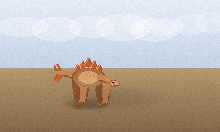
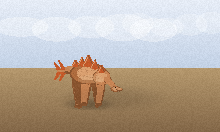
nomoreneckfeet

Changed region(s): [[0.2455, 0.3939, 0.5727, 0.8182]]

diff --git a/scripts/generate_authored_assets.js b/scripts/generate_authored_assets.js
@@ -701,92 +701,108 @@ function drawStegosaurus(image, frameIndex, frameCount, overridePalette = null) 
     eye: PALETTE.eye,
   };
 
+  // Stegosaurus faces RIGHT: small head low-right, arched back peaking at hips,
+  // thick tail extending LEFT with thagomizer spikes.
+  // Hip is highest point (~y=48), head lowest (~y=72). Back arches dramatically.
+
   const phase = (frameIndex / frameCount) * Math.PI * 2;
-  const bob = Math.sin(phase) * 1.0;
-  const headBob = Math.cos(phase) * 1.2;
-  const tailSway = Math.sin(phase) * 3;
-  const legShift = Math.sin(phase) * 1.4;
+  const bob = Math.sin(phase) * 0.8;
+  const headBob = Math.cos(phase) * 1.0;
+  const tailSway = Math.sin(phase) * 2.5;
+  const legShift = Math.sin(phase) * 1.2;
 
-  drawGroundShadow(image, 34, 88 + bob, 28, 7, overridePalette ? 0.12 : 0.22);
+  drawGroundShadow(image, 36, 88 + bob, 30, 7, overridePalette ? 0.12 : 0.2);
 
-  // Tail with thagomizer spikes
+  // --- TAIL: extends LEFT from hip, held roughly horizontal, thick ---
   drawTube(image, [
-    [2 + tailSway * 0.5, 56 + bob],
-    [8 + tailSway * 0.3, 56 + bob],
-    [16, 56 + bob],
-    [22, 58 + bob],
-  ], 2.0, 5.0, palette.bodyAlt || palette.body, palette.shadow, palette.highlight);
+    [3 + tailSway * 0.5, 54 + bob],
+    [8 + tailSway * 0.3, 54 + bob],
+    [14 + tailSway * 0.1, 52 + bob],
+    [20, 52 + bob],
+  ], 2.0, 5.5, palette.bodyAlt || palette.body, palette.shadow, palette.highlight);
 
-  // Thagomizer – 4 spikes at tail tip
+  // Thagomizer — 4 spikes at tail tip, 2 pointing up, 2 pointing down
   const plateColor = palette.plate || palette.highlight;
-  const tx = 2 + tailSway * 0.5, ty = 56 + bob;
-  fillPolygon(image, [[tx, ty - 2], [tx - 4, ty - 8], [tx - 2, ty - 2]], plateColor);
-  fillPolygon(image, [[tx + 2, ty - 2], [tx - 1, ty - 10], [tx + 4, ty - 2]], plateColor);
-  fillPolygon(image, [[tx, ty + 2], [tx - 4, ty + 8], [tx - 2, ty + 2]], plateColor);
-  fillPolygon(image, [[tx + 2, ty + 2], [tx - 1, ty + 9], [tx + 4, ty + 2]], plateColor);
+  const ttx = 3 + tailSway * 0.5, tty = 54 + bob;
+  // Upper spikes
+  fillPolygon(image, [[ttx + 2, tty - 1], [ttx - 5, tty - 10], [ttx - 1, tty - 1]], plateColor);
+  fillPolygon(image, [[ttx + 4, tty - 1], [ttx, tty - 12], [ttx + 6, tty - 2]], plateColor);
+  // Lower spikes
+  fillPolygon(image, [[ttx + 2, tty + 1], [ttx - 4, tty + 9], [ttx - 1, tty + 1]], plateColor);
+  fillPolygon(image, [[ttx + 4, tty + 1], [ttx + 1, tty + 10], [ttx + 6, tty + 2]], plateColor);
 
-  // Legs – short front, taller hind
-  const kneeA = Math.sin(phase) * 1.2;
-  const kneeB = Math.sin(phase + Math.PI) * 1.2;
-  // Hind legs (taller)
+  // --- HIND LEGS (under hip, ~x=24-32, taller) ---
+  const kneeA = Math.sin(phase) * 1.0;
+  const kneeB = Math.sin(phase + Math.PI) * 1.0;
   drawTube(image, [
-    [24, 62 + bob], [22 + kneeA, 72 + bob], [24, 80 + bob], [25, 88 + bob + legShift],
-  ], 5.0, 3.0, palette.shadow, palette.shadow, palette.highlight);
+    [24, 58 + bob], [22 + kneeA, 68 + bob], [24, 78 + bob], [25, 88 + bob + legShift],
+  ], 5.5, 3.0, palette.shadow, palette.shadow, palette.highlight);
   drawTube(image, [
-    [30, 62 + bob], [32 + kneeB, 72 + bob], [30, 80 + bob], [29, 88 + bob - legShift],
-  ], 5.5, 3.2, palette.bodyAlt || palette.body, palette.shadow, palette.highlight);
-  // Front legs (shorter)
+    [32, 58 + bob], [34 + kneeB, 68 + bob], [32, 78 + bob], [31, 88 + bob - legShift],
+  ], 6.0, 3.2, palette.bodyAlt || palette.body, palette.shadow, palette.highlight);
+
+  // --- FRONT LEGS (under shoulders, ~x=44-48, shorter — creates the arch) ---
   drawTube(image, [
-    [48, 64 + bob], [46, 74 + bob], [48, 82 + bob], [49, 88 + bob + legShift * 0.5],
-  ], 3.8, 2.2, palette.shadow, palette.shadow, palette.highlight);
+    [44, 64 + bob], [43, 72 + bob], [44, 80 + bob], [45, 88 + bob + legShift * 0.6],
+  ], 4.0, 2.5, palette.shadow, palette.shadow, palette.highlight);
   drawTube(image, [
-    [54, 64 + bob], [56, 74 + bob], [54, 82 + bob], [53, 88 + bob - legShift * 0.5],
-  ], 4.0, 2.4, palette.bodyAlt || palette.body, palette.shadow, palette.highlight);
+    [48, 64 + bob], [49, 72 + bob], [48, 80 + bob], [47, 88 + bob - legShift * 0.6],
+  ], 4.2, 2.6, palette.bodyAlt || palette.body, palette.shadow, palette.highlight);
+
   // Feet
   fillEllipse(image, 25, 89 + bob + legShift, 4, 2, palette.shadow);
-  fillEllipse(image, 29, 89 + bob - legShift, 4, 2, palette.shadow);
-  fillEllipse(image, 49, 89 + bob + legShift * 0.5, 3, 1.5, palette.shadow);
-  fillEllipse(image, 53, 89 + bob - legShift * 0.5, 3, 1.5, palette.shadow);
+  fillEllipse(image, 31, 89 + bob - legShift, 4, 2, palette.shadow);
+  fillEllipse(image, 45, 89 + bob + legShift * 0.6, 3, 1.5, palette.shadow);
+  fillEllipse(image, 47, 89 + bob - legShift * 0.6, 3, 1.5, palette.shadow);
 
-  // Body – barrel shaped, arched back
-  drawEllipsoid(image, 36, 60 + bob, 18, 10, palette.body, palette.shadow, palette.highlight);
-  fillEllipse(image, 36, 65 + bob, 14, 5, [(palette.belly || palette.body)[0], (palette.belly || palette.body)[1], (palette.belly || palette.body)[2], 55]);
+  // --- BODY: barrel shape, higher at hips (left), sloping down to shoulders (right) ---
+  // Main torso — tilted: hip end higher, shoulder end lower
+  drawEllipsoid(image, 36, 56 + bob, 20, 11, palette.body, palette.shadow, palette.highlight);
+  // Shoulder mass — slightly lower
+  drawEllipsoid(image, 50, 60 + bob, 10, 8, palette.bodyAlt || palette.body, palette.shadow, palette.highlight);
+  // Belly highlight
+  fillEllipse(image, 38, 62 + bob, 14, 4, [(palette.belly || palette.body)[0], (palette.belly || palette.body)[1], (palette.belly || palette.body)[2], 50]);
 
-  // PLATES – 5 diamond/kite shapes along arched spine (the iconic feature!)
-  const plateSizes = [5, 7, 9, 7, 5];
-  const plateXs = [24, 30, 36, 42, 48];
+  // --- PLATES: 5 big diamond/kite shapes along arched spine (THE iconic feature) ---
+  // Spine arches from hip (high, left) down to shoulder (lower, right)
+  const plateSizes = [6, 9, 11, 9, 6];
+  const plateXPositions = [22, 29, 36, 43, 50];
   for (let i = 0; i < 5; i++) {
-    const px = plateXs[i];
-    const archY = 52 + bob - Math.sin((i / 4) * Math.PI) * 4; // arched spine
+    const px = plateXPositions[i];
+    // Spine arch: highest in middle, with overall slope from hip to shoulder
+    const spineY = 48 + bob - Math.sin((i / 4) * Math.PI) * 3 + i * 1.5;
     const sz = plateSizes[i];
-    // Diamond shape pointing up
+    // Big diamond pointing UP
     fillPolygon(image, [
-      [px, archY - sz],       // top
-      [px + sz * 0.45, archY], // right
-      [px, archY + 2],        // bottom
-      [px - sz * 0.45, archY], // left
+      [px, spineY - sz],           // tip (top)
+      [px + sz * 0.5, spineY],     // right
+      [px, spineY + 2],            // bottom
+      [px - sz * 0.5, spineY],     // left
     ], plateColor);
-    // Plate outline/shadow
-    drawLine(image, px, archY - sz, px + Math.floor(sz * 0.45), archY, palette.shadow);
-    drawLine(image, px, archY - sz, px - Math.floor(sz * 0.45), archY, palette.highlight);
+    // Light edge (left)
+    drawLine(image, px, spineY - sz, px - Math.floor(sz * 0.5), spineY, palette.highlight);
+    // Shadow edge (right)
+    drawLine(image, px, spineY - sz, px + Math.floor(sz * 0.5), spineY, palette.shadow);
   }
 
-  // Neck – short, sloping down
+  // --- NECK: short, angling DOWN-RIGHT from shoulder ---
   drawTube(image, [
-    [50, 60 + bob],
-    [56, 62 + bob + headBob * 0.3],
-    [60, 64 + bob + headBob * 0.6],
-  ], 4.5, 3.0, palette.bodyAlt || palette.body, palette.shadow, palette.highlight);
+    [56, 62 + bob],
+    [60, 66 + bob + headBob * 0.3],
+    [63, 70 + bob + headBob * 0.5],
+  ], 4.0, 3.0, palette.bodyAlt || palette.body, palette.shadow, palette.highlight);
 
-  // Head – small, held low
-  const hx = 63, hy = 66 + bob + headBob;
+  // --- HEAD: small, held low (stego's brain was famously tiny) ---
+  const hx = 65, hy = 72 + bob + headBob;
   drawEllipsoid(image, hx, hy, 5, 3.5, palette.body, palette.shadow, palette.highlight);
-  drawEllipsoid(image, hx + 3, hy, 3, 2.5, palette.bodyAlt || palette.body, palette.shadow, palette.highlight);
-  drawLine(image, hx, hy + 2, hx + 5, hy + 2, palette.shadow);
-  setPixel(image, hx - 1, hy - 1, palette.eye);
+  // Snout
+  drawEllipsoid(image, hx + 4, hy + 1, 3, 2, palette.bodyAlt || palette.body, palette.shadow, palette.highlight);
+  // Beak/mouth line
+  drawLine(image, hx + 2, hy + 2, hx + 6, hy + 2, palette.shadow);
+  // Eye
   setPixel(image, hx, hy - 1, palette.eye);
 
-  stippleEllipse(image, 36, 60 + bob, 14, 7, palette.shadow, 0.1, 8500 + frameIndex);
+  stippleEllipse(image, 36, 56 + bob, 16, 8, palette.shadow, 0.1, 8500 + frameIndex);
 }
 
 // ─── Allosaurus ────────────────────────────────────────────────────────
